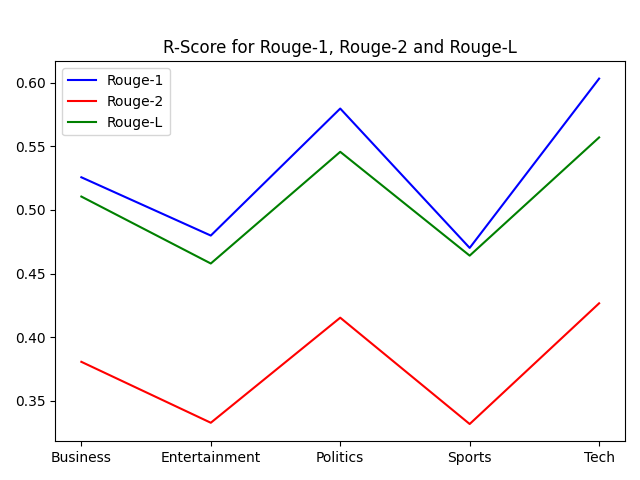
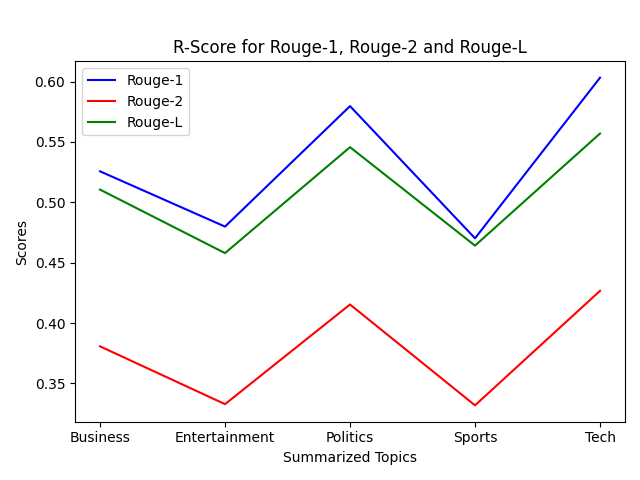
push

diff --git a/baseline_s_file/load_df.py b/baseline_s_file/load_df.py
@@ -132,12 +132,12 @@ axs.plot([0,1,2,3,4],f_score.iloc[1,:],'r',label='Rouge-2')
 axs.plot([0,1,2,3,4],f_score.iloc[2,:],'g',label='Rouge-L')
 axs.legend()
 axs.set_title("F-Score for Rouge-1, Rouge-2 and Rouge-L")
-
+plt.xlabel("Summarized Topics")
+plt.ylabel("Scores")
 axs.set_xticks([0,1,2,3,4])
 axs.set_xticklabels(["Business","Entertainment","Politics","Sports","Tech"])
-
 plt.tight_layout(rect=[0, 0, 1, 0.95])
-axs.xlabel("Summarized Topics")
+
 # sns.lineplot([0,1,2,3,4],f_score.iloc[0,:])
 fig1.savefig('f_score.png')
 
@@ -150,7 +150,8 @@ axs.plot([0,1,2,3,4],p_score.iloc[1,:],'r',label='Rouge-2')
 axs.plot([0,1,2,3,4],p_score.iloc[2,:],'g',label='Rouge-L')
 axs.legend()
 axs.set_title("P-Score for Rouge-1, Rouge-2 and Rouge-L")
-
+plt.xlabel("Summarized Topics")
+plt.ylabel("Scores")
 axs.set_xticks([0,1,2,3,4])
 axs.set_xticklabels(["Business","Entertainment","Politics","Sports","Tech"])
 
@@ -171,7 +172,8 @@ axs.plot([0,1,2,3,4],r_score.iloc[1,:],'r',label='Rouge-2')
 axs.plot([0,1,2,3,4],r_score.iloc[2,:],'g',label='Rouge-L')
 axs.legend()
 axs.set_title("R-Score for Rouge-1, Rouge-2 and Rouge-L")
-
+plt.xlabel("Summarized Topics")
+plt.ylabel("Scores")
 axs.set_xticks([0,1,2,3,4])
 axs.set_xticklabels(["Business","Entertainment","Politics","Sports","Tech"])
 
